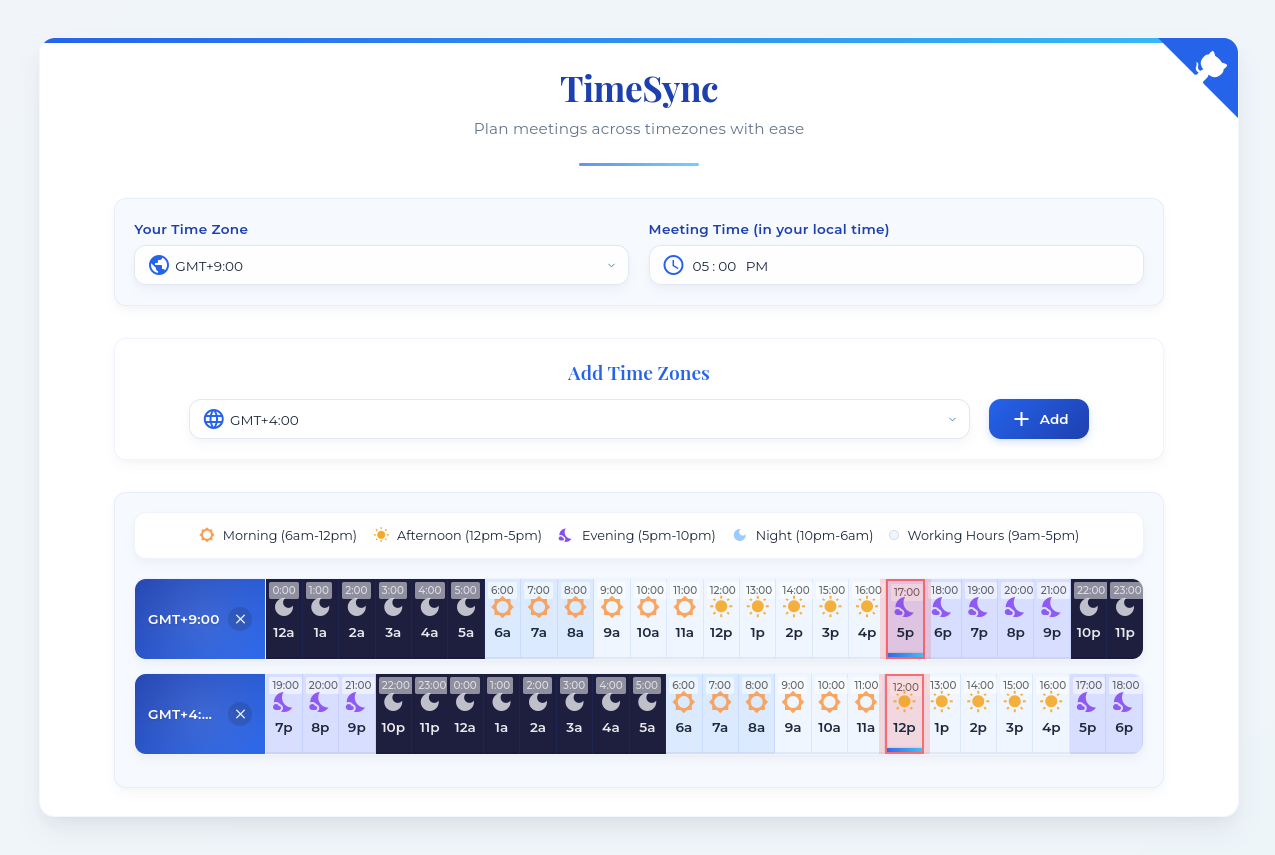
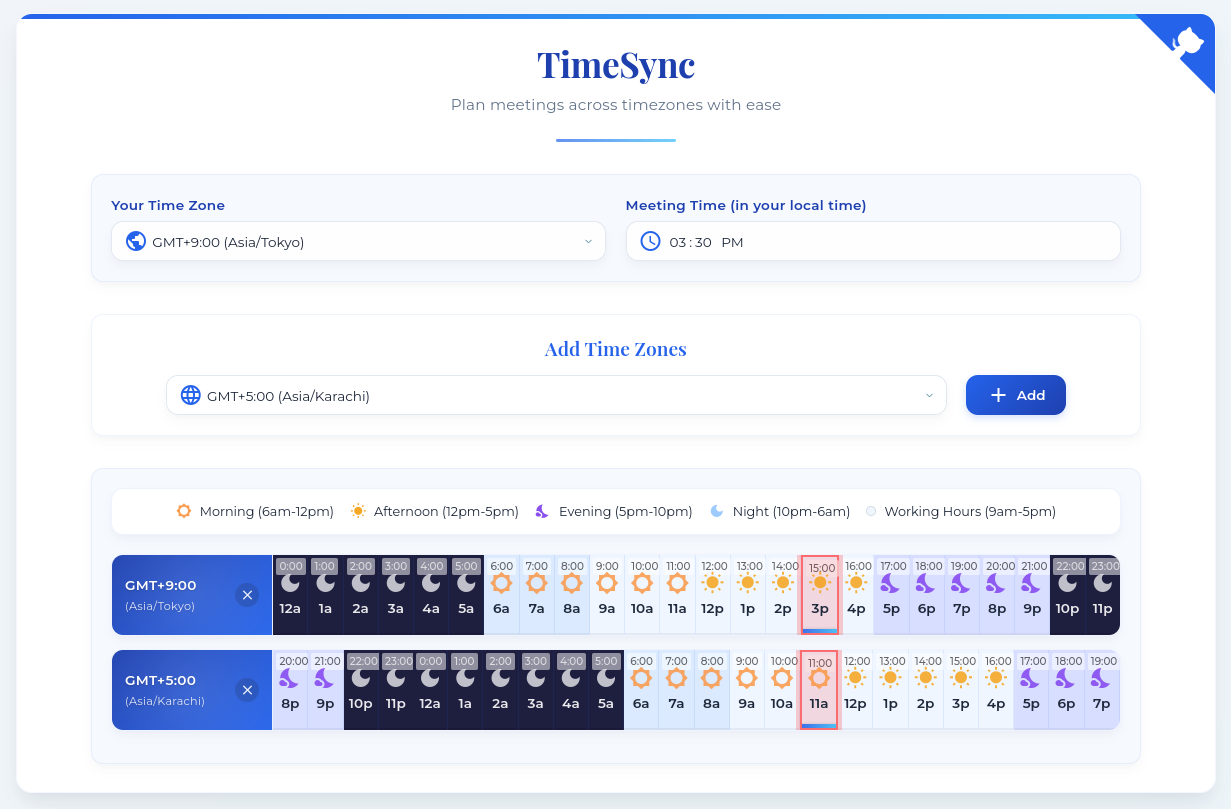
Added TZ identifiers

diff --git a/app.js b/app.js
@@ -91,7 +91,8 @@ document.addEventListener('DOMContentLoaded', () => {
         timezones.forEach(tz => {
             const option = document.createElement('option');
             option.value = tz.id;
-            option.textContent = tz.label;
+            // Add TZ identifier next to GMT offset
+            option.textContent = `${tz.label} (${tz.id})`;
             
             // If this is the local timezone or close to it, select it by default
             if (tz.id === localTimezoneName || 
@@ -113,7 +114,8 @@ document.addEventListener('DOMContentLoaded', () => {
         timezones.forEach(tz => {
             const option = document.createElement('option');
             option.value = tz.id;
-            option.textContent = tz.label;
+            // Add TZ identifier next to GMT offset
+            option.textContent = `${tz.label} (${tz.id})`;
             addFragment.appendChild(option);
         });
         
@@ -190,7 +192,7 @@ document.addEventListener('DOMContentLoaded', () => {
             // Timezone label display
             const nameSpan = document.createElement('span');
             nameSpan.className = 'timezone-name';
-            nameSpan.textContent = timezone.label;
+            nameSpan.innerHTML = `<span class="timezone-offset">${timezone.label}</span> <span class="timezone-id">(${timezone.id})</span>`;
             
             // Create a button wrapper for better touch target
             const btnWrapper = document.createElement('div');

diff --git a/styles.css b/styles.css
@@ -405,8 +405,8 @@ select {
 }
 
 .timezone-info {
-    width: 130px;
-    min-width: 130px;
+    width: 160px;
+    min-width: 160px;
     padding: 0.8rem;
     background: linear-gradient(135deg, var(--primary-dark) 0%, var(--primary) 100%);
     color: white;
@@ -440,6 +440,19 @@ select {
     flex: 1;
     text-align: left;
     padding-right: 0.5rem;
+    display: flex;
+    flex-direction: column;
+}
+
+.timezone-offset {
+    font-weight: 600;
+}
+
+.timezone-id {
+    font-size: 0.7rem;
+    opacity: 0.85;
+    font-weight: normal;
+    margin-top: 2px;
 }
 
 .timezone-hours {
@@ -641,8 +654,8 @@ select {
     }
     
     .timezone-info {
-        width: 120px;
-        min-width: 120px;
+        width: 150px;
+        min-width: 150px;
     }
     
     .hour-block {
@@ -819,7 +832,12 @@ select {
     }
     
     .timezone-name {
-        font-size: 1rem;
+        font-size: 0.9rem;
+        padding: 0.3rem 0;
+    }
+    
+    .timezone-id {
+        font-size: 0.65rem;
     }
     
     /* Add visual indicator for scrollable area */
@@ -878,6 +896,19 @@ select {
     input, select {
         font-size: 0.8rem;
         height: 45px;
+    }
+    
+    .timezone-info {
+        padding: 0.6rem;
+    }
+    
+    .timezone-name {
+        font-size: 0.8rem;
+    }
+    
+    .timezone-id {
+        font-size: 0.6rem;
+        margin-top: 1px;
     }
 }
 
